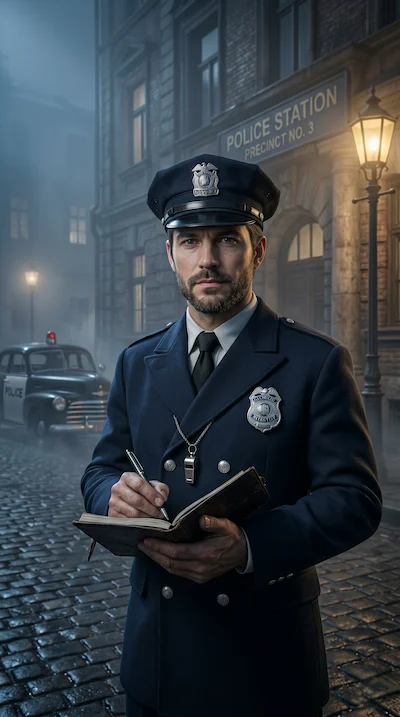
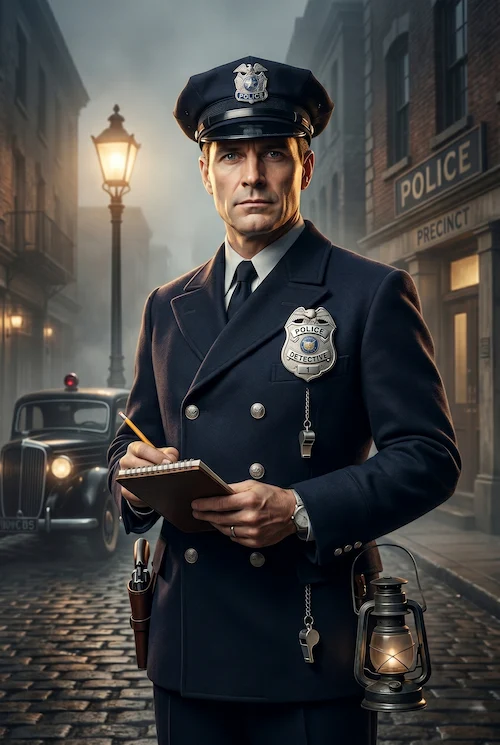
feat(GameRolesInfoModal): add modal to display game roles information with responsive design

diff --git a/src/components/Modals/GameRolesInfoModal/GameRolesInfoModal.tsx b/src/components/Modals/GameRolesInfoModal/GameRolesInfoModal.tsx
@@ -1,0 +1,144 @@
+import { observer } from "mobx-react-lite";
+import { useMemo } from "react";
+import { useTranslation } from "react-i18next";
+
+import mafia1 from "@/assets/images/cards/mafia_1.webp";
+import mafia2 from "@/assets/images/cards/mafia_2.webp";
+import { useShuffledRoleImages } from "@/hooks/useShuffledRoleImages.ts";
+import { rootStore } from "@/store/rootStore.ts";
+import { Roles } from "@/types/game.types.ts";
+import { Button } from "@/UI/Button";
+import { ButtonSize, ButtonVariant } from "@/UI/Button/ButtonTypes.ts";
+import { Typography } from "@/UI/Typography";
+
+import styles from "./GameRolesInfoModal.module.scss";
+
+type RoleEntry = {
+  role: Roles;
+  count: number;
+  image: string;
+  taglineKey: string | null;
+};
+
+const RoleInfoCard = ({ entry }: { entry: RoleEntry }) => {
+  const { t } = useTranslation();
+
+  return (
+    <div className={styles.card}>
+      <div className={styles.imageWrapper}>
+        <img src={entry.image} alt={t(`roles.${entry.role}`)} />
+        <div className={styles.cardOverlay}>
+          <Typography variant="subtitle" className={styles.roleName}>
+            {t(`roles.${entry.role}`)}
+          </Typography>
+          {entry.taglineKey && (
+            <Typography variant="caption" className={styles.tagline}>
+              {t(entry.taglineKey)}
+            </Typography>
+          )}
+        </div>
+        {entry.count > 1 && (
+          <Typography variant="caption" className={styles.badge}>
+            ×{entry.count}
+          </Typography>
+        )}
+      </div>
+    </div>
+  );
+};
+
+export const GameRolesInfoModal = observer(() => {
+  const { t } = useTranslation();
+  const { gamesStore, modalStore } = rootStore;
+  const roles = gamesStore.activeGameRoles;
+  const { shuffledCitizens, getRoleImages } = useShuffledRoleImages();
+
+  const entries = useMemo((): RoleEntry[] => {
+    if (!roles) return [];
+
+    const result: RoleEntry[] = [];
+    const roleImages = getRoleImages(0);
+
+    const mafiaCount = roles.mafia?.length ?? 0;
+    if (mafiaCount > 0) {
+      result.push({
+        role: Roles.Mafia,
+        count: mafiaCount,
+        image: mafia1,
+        taglineKey: "rules.roles.mafia.tagline",
+      });
+    }
+
+    if (roles.sheriff) {
+      result.push({
+        role: Roles.Sheriff,
+        count: 1,
+        image: roleImages[Roles.Sheriff],
+        taglineKey: "rules.roles.sheriff.tagline",
+      });
+    }
+
+    if (roles.doctor) {
+      result.push({
+        role: Roles.Doctor,
+        count: 1,
+        image: roleImages[Roles.Doctor],
+        taglineKey: "rules.roles.doctor.tagline",
+      });
+    }
+
+    if (roles.prostitute) {
+      result.push({
+        role: Roles.Prostitute,
+        count: 1,
+        image: roleImages[Roles.Prostitute],
+        taglineKey: "rules.roles.prostitute.tagline",
+      });
+    }
+
+    if (roles.maniac) {
+      result.push({
+        role: Roles.Maniac,
+        count: 1,
+        image: mafia2,
+        taglineKey: null,
+      });
+    }
+
+    const citizenCount = roles.citizens?.length ?? 0;
+    if (citizenCount > 0) {
+      result.push({
+        role: Roles.Citizen,
+        count: citizenCount,
+        image: shuffledCitizens[0] ?? roleImages[Roles.Citizen],
+        taglineKey: "rules.roles.citizen.tagline",
+      });
+    }
+
+    return result;
+  }, [roles, getRoleImages, shuffledCitizens]);
+
+  return (
+    <div className={styles.container}>
+      <Typography variant="h2" className={styles.title}>
+        {t("gameRolesInfo.title")}
+      </Typography>
+
+      <div className={styles.cardsRow}>
+        {entries.map((entry) => (
+          <RoleInfoCard key={entry.role} entry={entry} />
+        ))}
+      </div>
+
+      <div className={styles.actions}>
+        <Button
+          variant={ButtonVariant.Primary}
+          size={ButtonSize.Medium}
+          onClick={modalStore.closeModal}
+        >
+          {t("gameRolesInfo.confirm")}
+        </Button>
+      </div>
+    </div>
+  );
+});

diff --git a/src/components/Modals/GameRolesInfoModal/GameRolesInfoModal.module.scss b/src/components/Modals/GameRolesInfoModal/GameRolesInfoModal.module.scss
@@ -1,0 +1,112 @@
+@use "../../../styles/theme.scss";
+@use "../../../styles/mixins.scss";
+
+.container {
+  display: flex;
+  flex-direction: column;
+  align-items: center;
+  text-align: center;
+  width: 100%;
+}
+
+.title {
+  color: theme.$color-accent-primary;
+  font-size: 3.3rem;
+  font-weight: 900;
+  text-shadow: 0 0 20px rgba(theme.$color-accent-primary, 0.4);
+  letter-spacing: -0.5px;
+}
+
+.cardsRow {
+  display: flex;
+  flex-wrap: nowrap;
+  justify-content: center;
+  gap: 2rem;
+  width: 100%;
+  margin-bottom: 2.2rem;
+  overflow-x: auto;
+  padding: 2rem;
+}
+
+.card {
+  display: flex;
+  flex-direction: column;
+  align-items: center;
+  width: 190px;
+  flex-shrink: 0;
+}
+
+.imageWrapper {
+  position: relative;
+  width: 100%;
+  border-radius: 10px;
+  overflow: hidden;
+  box-shadow: 0 6px 20px rgba(0, 0, 0, 0.6);
+  img {
+    width: 100%;
+    height: 265px;
+    object-fit: cover;
+    display: block;
+  }
+}
+
+.cardOverlay {
+  position: absolute;
+  bottom: 0;
+  left: 0;
+  right: 0;
+  padding: 2.4rem 1rem 1rem;
+  background: linear-gradient(to top, rgba(0, 0, 0, 0.85) 0%, transparent 100%);
+  display: flex;
+  flex-direction: column;
+  align-items: center;
+  gap: 0.4rem;
+}
+
+.roleName {
+  font-size: 3rem;
+  font-weight: 600;
+  color: #fff;
+  text-align: center;
+  text-shadow:
+    -1px -1px 0 #000,
+    1px -1px 0 #000,
+    -1px 1px 0 #000,
+    1px 1px 0 #000;
+}
+
+.tagline {
+  font-size: 1.15rem;
+  color: rgba(255, 255, 255, 0.85);
+  text-align: center;
+  line-height: 1.35;
+  letter-spacing: 0.03em;
+  text-shadow: 0 1px 3px rgba(0, 0, 0, 0.9);
+}
+
+.badge {
+  position: absolute;
+  top: 6px;
+  right: 6px;
+  background: #e74c3c;
+  color: theme.$color-text-primary;
+  font-size: 1.6rem;
+  font-weight: 700;
+  line-height: 1;
+  padding: 4px 9px;
+  border-radius: 12px;
+  box-shadow: 0 2px 8px rgba(0, 0, 0, 0.5);
+}
+
+.actions {
+  display: flex;
+  justify-content: center;
+  width: 100%;
+
+  button {
+    min-width: 160px;
+    height: 46px;
+    font-size: 1.6rem;
+    font-weight: 600;
+  }
+}

diff --git a/src/pages/Game/GamePage.tsx b/src/pages/Game/GamePage.tsx
@@ -18,7 +18,7 @@ import { ModalNames } from "@/components/Modals/Modal.types.ts";
 import { wsEvents } from "@/config/wsEvents.ts";
 import { useSocketContext } from "@/context/SocketProvider.tsx";
 import { modalStore } from "@/store/modalStore.ts";
-import { useEffect } from "react";
+import { useEffect, useRef } from "react";
 import styles from "./GamePage.module.scss";
 import { useGameAccess } from "./hooks/useGameAccess.ts";
 import { useGameMediaSetup } from "./hooks/useGameMediaSetup.ts";
@@ -54,6 +54,27 @@ const GamePage = observer(() => {
   const myId = rootStore.usersStore.myId;
   const isKilled = gamesStore.activeGameKilledPlayers.includes(myId || "");
   const isMeObserver = gamesStore.isMeObserver;
+
+  const didShowRolesModal = useRef(false);
+  const isStarted = !!gamesStore.activeGame?.gameFlow?.isStarted;
+
+  useEffect(() => {
+    if (!isStarted) {
+      didShowRolesModal.current = false;
+      return;
+    }
+
+    if (didShowRolesModal.current) return;
+
+    const timer = setTimeout(() => {
+      if (!modalStore.isModalOpen) {
+        didShowRolesModal.current = true;
+        modalStore.openModal(ModalNames.GameRolesInfoModal);
+      }
+    }, 3000);
+
+    return () => clearTimeout(timer);
+  }, [isStarted]);
 
   useEffect(() => {
     if (isKilled && !isMeObserver && !modalStore.isModalOpen) {

diff --git a/src/components/Modals/ModalBase.module.scss b/src/components/Modals/ModalBase.module.scss
@@ -15,13 +15,13 @@
 
 .modal {
   min-width: 300px;
-  max-width: 45dvw;
+  max-width: min(95dvw, 1200px);
   max-height: 85dvh;
   background-color: rgba(theme.$color-dark-tertiary, 0.9);
   backdrop-filter: blur(12px);
   border-radius: theme.$border-radius-big;
   border: 1px solid rgba(theme.$color-text-primary, 0.1);
   box-shadow: 0 20px 50px rgba(0, 0, 0, 0.5);
-  padding: 2rem 2.4rem;
+  padding: 2rem 3.6rem;
   overflow-y: auto;
 }

diff --git a/src/components/Modals/Modal.types.ts b/src/components/Modals/Modal.types.ts
@@ -31,6 +31,7 @@ export enum ModalNames {
   ConfirmRestartModal = "ConfirmRestartModal",
   ConfirmChangeGMModal = "ConfirmChangeGMModal",
   GhostModeModal = "GhostModeModal",
+  GameRolesInfoModal = "GameRolesInfoModal",
 }
 
 export type ModalData = {
@@ -42,6 +43,7 @@ export type ModalData = {
   [ModalNames.ConfirmRestartModal]: { onConfirm: () => void };
   [ModalNames.ConfirmChangeGMModal]: { onConfirm: () => void };
   [ModalNames.GhostModeModal]: { onConfirm: () => void };
+  [ModalNames.GameRolesInfoModal]: object;
 };
 
 export type GModalData<T extends ModalNames> = ModalData[T];

diff --git a/src/components/Modals/ModalFabric.tsx b/src/components/Modals/ModalFabric.tsx
@@ -16,6 +16,7 @@ import { ConfirmChangeGMModal } from "./ConfirmChangeGMModal";
 import styles from "./ModalBase.module.scss";
 import { VoteResultsModal } from "./VoteResultsModal";
 import { GhostModeModal } from "./GhostModeModal/GhostModeModal";
+import { GameRolesInfoModal } from "./GameRolesInfoModal";
 
 ReactModal.setAppElement("#root");
 
@@ -33,6 +34,7 @@ export const ModalFabric = observer(() => {
     [ModalNames.ConfirmRestartModal]: <ConfirmRestartModal />,
     [ModalNames.ConfirmChangeGMModal]: <ConfirmChangeGMModal />,
     [ModalNames.GhostModeModal]: <GhostModeModal />,
+    [ModalNames.GameRolesInfoModal]: <GameRolesInfoModal />,
   };
 
   return (

diff --git a/src/components/Modals/GameRolesInfoModal/index.ts b/src/components/Modals/GameRolesInfoModal/index.ts
@@ -1,0 +1,1 @@
+export { GameRolesInfoModal } from "./GameRolesInfoModal.tsx";